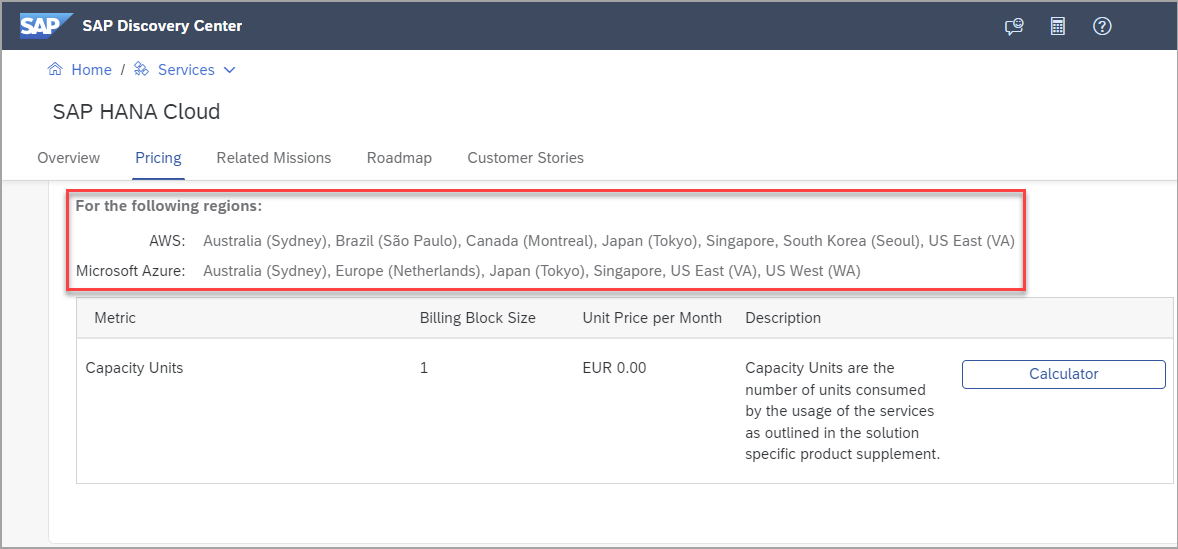
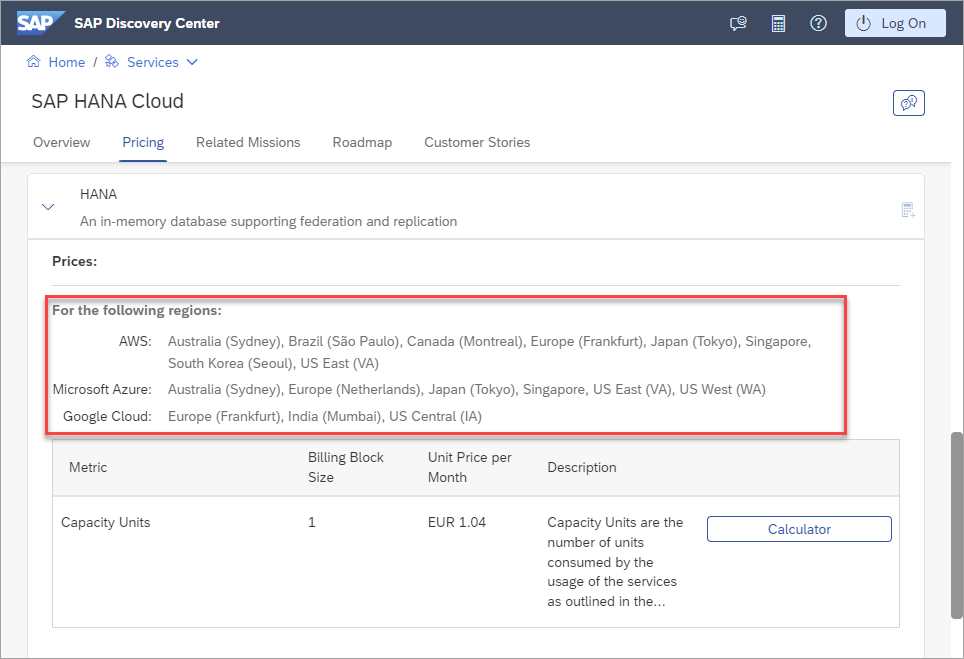
relocated some content to from ex2 to ex3 for bus_app_studio

diff --git a/exercises/business_app_studio/ex2/README.md b/exercises/business_app_studio/ex2/README.md
@@ -19,57 +19,65 @@ This exercise will demonstrate how to create a project containing tables, a calc
 - Can be generated from higher-level language like CAP CDS
 - Eases deployment in multi-tenant environments
 
-Alternatively, database objects can also be created directly in the database using SQL as shown in the last step[](../database_explorer/README.md).
+Alternatively, database objects can also be created directly in the database using SQL as shown in the last step of [SAP HANA database explorer exercise 1](../database_explorer/README.md).
 
 ## Exercise 2.2 Create a New SAP HANA Database Project from a Template
 
-1. In the SAP Business Application Studio, start the Guided Development wizard by selecting it from the bottom of the Welcome screen, or select the View, Find Command menu (or Fn F1) to open the command palette and search for SAP HANA and select the option SAP HANA: Getting Started.
+1. In the SAP Business Application Studio, start the Guided Development wizard by selecting it from the bottom of the Welcome screen.
 
     ![](images/welcome.png)
 
-    or
-
-    ![](images/getting-started.png)
+    > Alternatively, select the View, Find Command menu (or Fn F1) to open the command palette and search for SAP HANA and select the option SAP HANA: Getting Started.
+    >
+    >![](images/getting-started.png)
 
     It may take a moment or two for the contents of the Guided Develpment wizard to appear.  If it does not appear, try reloading the page.
 
-2. Select Get Started with SAP HANA Cloud.
+2. Select **Get Started with SAP HANA Cloud**.
 
     ![](images/guided-development.png)
 
-    Select the first sub option Create a New SAP HANA Database Project from a Template.
+    Select the first sub option **Create a New SAP HANA Database Project from a Template**.
 
     ![](images/create-project.png)
 
-    Press the create button to open the project creation wizard and then press next multiple times to accept the defaults.
+    Press the **Create SAP HANA Database Project** button to open the project creation wizard and then press **Next** multiple times to accept the defaults.
 
     ![](images/create_and_next.png)
 
-    When asked to, provide your Cloud Foundry user id and password and select login. [JOSE: where do you get these from?]
+    When asked to, provide your Cloud Foundry API endpoint, user id and password and select login.  The API endpoint value can be obtained from the BTP Cockpit subaccount page.
 
     ![](images/log-in.png)
+
+    >In the example below, notice that the API endpoint is slightly different (us10 instead of us10-001) and would need to be updated in the wizard.  
+    >
+    >![](images/API-endpoint.png)
 
     Select the option to Open the Output View when asked.
 
     ![](images/open-output.png)
 
-    The bottom panel can also be shown (or hidden) by selecting View, Toggle Bottom Panel or by the icon in the bottom right.
-
-    ![](images/output.png)
+    >The bottom panel can also be shown (or hidden) by selecting View, Toggle Bottom Panel or by the icon in the bottom right.
+    >
+    >![](images/output.png)
 
 3. In the project explorer, open the generated project.
 
     ![](images/open-project.png)
 
-4. Examine the created project.
+4. Examine the created project and result of the deployment.
 
     ![](images/project.png)
 
-    The panes in the explorer can be expanded and resized.  Optionally right click on OPEN EDITOR and choose hide.  Hidden panes can be shown again using the ... menu in the top right of the Explorer.
+    The panes in the explorer can be expanded and resized.  
+    
+    >Optionally right click on OPEN EDITOR and choose hide.  Hidden panes can be shown again using the ... menu in the top right of the Explorer.
 
     At this point an HDI Container has been created and can be seen in both the SAP BTP Cockpit and within the add database dialog of the SAP HANA database explorer.
 
     ![](images/hdi-container.png)
+
+    ![](images/add-HDI-in-dbx.png)
 
     A service key has been added to the service.  
 
@@ -81,19 +89,28 @@ Alternatively, database objects can also be created directly in the database usi
 
     These details could be also be used to connect to the HDI container from an application using one of the many SAP HANA client drivers (Java, ODBC, Node.js, Python, Go, .NET etc.) or the command line SQL tool HDBSQL.
 
-    An example is shown below.  Additional details on client connections can be found at [Use Clients to Query an SAP HANA Database](https://developers.sap.com/mission.hana-cloud-clients.html).
+    >An example is shown below of connecting with both the RT and DT users.  Additional details on client connections can be found at [Use Clients to Query an SAP HANA Database](https://developers.sap.com/mission.hana-cloud-clients.html).  The example shown above requires an installation of the SAP HANA Client.
+    >
+    > ```SQL
+    > \al
+    > SELECT CURRENT_USER, CURRENT_SCHEMA FROM DUMMY;
+    > SELECT SCHEMA_NAME, SCHEMA_OWNER FROM SCHEMAS;
+    > ```
+    >
+    >![](images/HDI-Schemas_RT.png)
+    >
+    >![](images/HDI-Schemas_DT.png)
 
-    ![](images/HDBSQL.png)
 
-    TODO Dan, maybe demonstrate connecting with the DT user and show the different schemas that user is able to see or show both in DBX?  Note that the OO and DT schemas are not shown in the above example.
+    TODO Volker ... the #OO schema is not shown above.
 
-    TODO at some point another service key is created for the HDI container.  What triggers that?
+    TODO Volker ... at some point another service key is created for the HDI container.  What triggers that?  Seems to be when the HDI container is added to DBX.  Why do two sets of service keys get created?
   
-    The SAP HANA database explorer is able to look up the service key and use the information to connect and browse the HDI container.
+    The SAP HANA database explorer is able to look up the service key and use the information contained in the service key to connect and browse the HDI container.
 
-    ![](images/add-database.png)
+    An HDI container is construct can also be described as a glorified set of schemas. 
 
-    An HDI container is construct one can also describe as a glorified set of schemas.
+    TODO Volker, the sreenshot below does not seem to correspond to the previous screenshots.
 
     ![](images/HDI-Schemas.png)
 
@@ -152,12 +169,16 @@ Calculation views allow the developers to express their intent instead of defini
 
 2. Complete all the steps to create and deploy a calculation view and view its properties in the SAP HANA database explorer.  It may take a moment or two for the calculation view editor to load after its creation.  Note that the permissions to view its data will be granted in the next step.
 
-    ![](images/calc-view.png)
-
     There are various ways to open the Calculation View:
     
-     -  1. Directly within the editor on the projection level
-     -  2. Using DBX as a "Column View"
+     -  Directly within the editor on the projection level
+
+         ![](images/open-calc-view-in-editor.png)
+         TODO Volker 
+
+     -  Using the catalog browser in the SAP HANA database explorer
+
+         ![](images/calc-view.png)
 
 ## Exercise 2.7 Create Analytic Privileges for your Calculation View
 
@@ -184,51 +205,12 @@ Calculation views allow the developers to express their intent instead of defini
 
 ## Exercise 2.10 Debug a Database Procedure File
 
+TODO Dan/Gurvick move this step to separate DBX exercise.
+
 1.  In the SAP HANA database explorer, attempt to debug the stored procedure by selecting Open for Debugging, placing a breakpoint on the last line of the stored procedure, and then call the stored procedure again.
 
     ![](images/debug-stored-procedure.png)
 
-## Exercise 2.11 Opening a SQL Console as Admin
-
-1.  In the SAP HANA database explorer, open a SQL Console connected to the HDI container.  Execute the following SQL.
-
-    ```SQL
-    SELECT * FROM USERS WHERE USER_NAME LIKE '%FLIGHT%';
-    SELECT * FROM SCHEMAS;
-    SELECT CURRENT_USER, CURRENT_SCHEMA FROM DUMMY;
-    SELECT * FROM FLIGHTRESERVATION_HDI_DB_1#DI.JOBS_;  --Fails 
-    ```
-    
-    Notice that the user is the _DT or design time user as opposed to the runtime user.
-    If you want to access the DT view you have to use the "ADMIN" container access in Database Explorer.
-
-    ![](images/DBX_ADMIN.png)
-
-    ```SQL
-    SELECT * from M_JOBS
-    ```
-Here is a blog on this topic:
-https://blogs.sap.com/2022/06/13/can-i-see-the-hana-deployment-history/
-
-
-
-
-2.  In the SAP HANA database explorer, open a SQL Console connected to the HDI container with ADMIN.  Execute the following SQL.
-
-    ```SQL
-    SELECT CURRENT_USER FROM DUMMY;
-    ```
-
-    Notice that the user is the _DT or design time user.
-    
-    ![](images/open-admin.png)
-
-3.  The design time user has some additoinal privileges.  
-TODO Volker what can b shown here?
-
-## Exercise 2.12 Examining the Contents of the HDI Container
-
-1.  In the SAP HANA database explorer, open the parent database of the HDI container.  Notice that you can see the schema and objects but do not have privileges to query them.
 
 ## Summary
 

diff --git a/exercises/business_app_studio/ex3/README.md b/exercises/business_app_studio/ex3/README.md
@@ -1,0 +1,39 @@
+# Exercise 3 - HDI Containers in Depth (Optional)
+
+This exercise will further examine the deployed HDI container.  
+
+
+## Exercise 2.1 Opening a SQL Console as Admin
+
+1.  In the SAP HANA database explorer, open a SQL Console connected to the HDI container.  Execute the following SQL.
+
+    ```SQL
+    SELECT * FROM USERS WHERE USER_NAME LIKE '%FLIGHT%';
+    SELECT * FROM SCHEMAS;
+    SELECT CURRENT_USER, CURRENT_SCHEMA FROM DUMMY;
+    SELECT * FROM M_JOBS;  --Fails 
+    ```
+    
+    Notice that the user is the _RT or run time user as opposed to the design time user.
+    If you want to access the DT view you have to use the "ADMIN" container access in Database Explorer.
+
+    ![](images/open-admin.png)
+
+    Here is a blog on this topic:
+    https://blogs.sap.com/2022/06/13/can-i-see-the-hana-deployment-history/
+
+2.  The design time user has some additoinal privileges.  
+TODO Volker what can be shown here?
+
+## Exercise 2.12 Examining the Contents of the HDI Container
+
+1.  In the SAP HANA database explorer, open the parent database of the HDI container.  Notice that you can see the schema and objects but do not have privileges to query them.
+
+    TODO, demonstrate this
+
+## Summary
+
+You have now have a better understanding of some of the HDI concepts.
+
+Continue to - [Exercise ? - Description](../ex?/README.md)
+

diff --git a/exercises/sap_btp/ex1/README.md b/exercises/sap_btp/ex1/README.md
@@ -35,7 +35,7 @@ This exercise will provide a brief overview of the SAP BTP and demonstrate how t
 
      ![](images/availability.png)
 
-    Notice above that the free tier offering of the SAP HANA Cloud service is available on Amazon AWS and Microsoft Azure in multiple data centers.
+    Notice above that the HANA serice is available on Amazon AWS, Microsoft Azure, and Google Cloud in multiple data centers.
 
 5. Additional details on the available free tier, trial, and paid service plans such as Cloud Platform Enterprise Agreement (CPEA), Pay-As-You-Go, or Subscription can be found at [Trial Accounts and Free Tier](https://help.sap.com/docs/BTP/65de2977205c403bbc107264b8eccf4b/046f127f2a614438b616ccfc575fdb16.html) and [Commercial Models](https://help.sap.com/docs/BTP/65de2977205c403bbc107264b8eccf4b/263d40009a5a4237a62e8f5c05ee641e.html).
 

diff --git a/README.md b/README.md
@@ -27,8 +27,8 @@ Database to invoke the Create Instance wizard.
 5.  Choose SAP HANA Cloud, SAP HANA Database and click the button Next Step
 6.	Enter DEMO_HANA_DB for the instance name
 7.	Enter and confirm your administrator password – ***PLEASE REMEMBER IT AND/OR WRITE IT DOWN!***
-8.	Click the button Create Now at the bottom right
-9.  Click the button Create Instance at the bottom right
+8.  For trial systems, consider changing the allowed connections option to **Allow all connections**.  The rest of the values can be left as a default.
+9.	Complete the wizard
 
     A new SAP HANA Cloud instance will be created, and this process may take  approx. 10 minutes.  The frequency of updates to the page can be set using the auto-refresh feature in the top right.  Once the instance has been created, its status will change to RUNNING.
 
